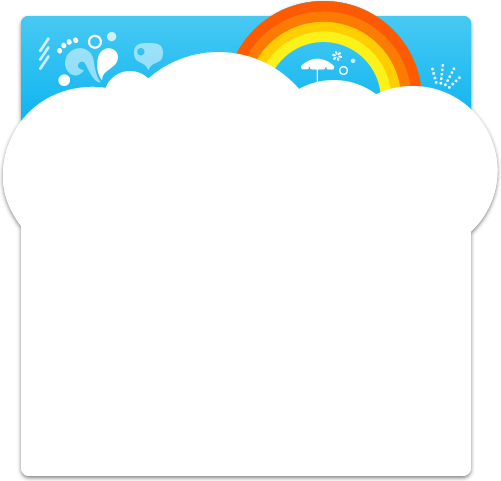
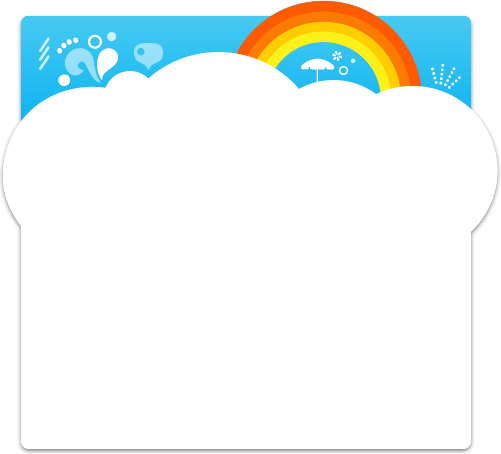
add: Rest of the about dialog

diff --git a/Skymu/About.xaml b/Skymu/About.xaml
@@ -8,11 +8,14 @@
         mc:Ignorable="d"
         WindowStyle="None"
         AllowsTransparency="True"
-        Title="About" Height="481" Width="501">
+        Title="About" Height="454" Width="501">
     <Window.Background>
-        <ImageBrush ImageSource="/ResourcesLight/Backgrounds/aboutBackground.png"  Stretch="Uniform" /> 
+        <ImageBrush ImageSource="/ResourcesLight/Backgrounds/aboutBackground.png" Stretch="Uniform" /> 
     </Window.Background>
-    <Grid>
-        <Image Source="/UniversalResources/Branding/skymu-about-logo.png" Height="111" Margin="0,0,0,100" />
-    </Grid>
+    <StackPanel>
+        <Image Source="/UniversalResources/Branding/skymu-about-logo.png" Height="111" Margin="0,115,0,0" />
+        <TextBlock Text="Skymu, a Skype-like instant messenger" HorizontalAlignment="Center" FontFamily="Tahoma" FontWeight="Bold" FontSize="11" Margin="0,18,16,0"/>
+        <TextBlock Text="FOSS software, licensed under (Placeholder)&#x0a;You can find our repository over at GitHub under the Skymu name.&#x0a;Skymu is not associated with Skype nor Microsoft, all assets are owned by Microsoft and Skype Limited." LineHeight="16" Width="390" TextWrapping="Wrap" Foreground="#363636" TextAlignment="Center" HorizontalAlignment="Center" Margin="0,23,13,0" FontFamily="Tahoma" FontSize="11" />
+        <TextBlock Text="Warning: If you have paid for this software with real currency, please ask for a chargeback from your bank! Skymu is free and forever will be free, please report the URL with the paid content to support@hubaxe.fr. We will handle the situation and take it down." LineHeight="16" Width="390" TextWrapping="Wrap" Foreground="#363636" TextAlignment="Center" HorizontalAlignment="Center" Margin="0,16,13,0" FontFamily="Tahoma" FontSize="11"/>
+    </StackPanel>
 </Window>
